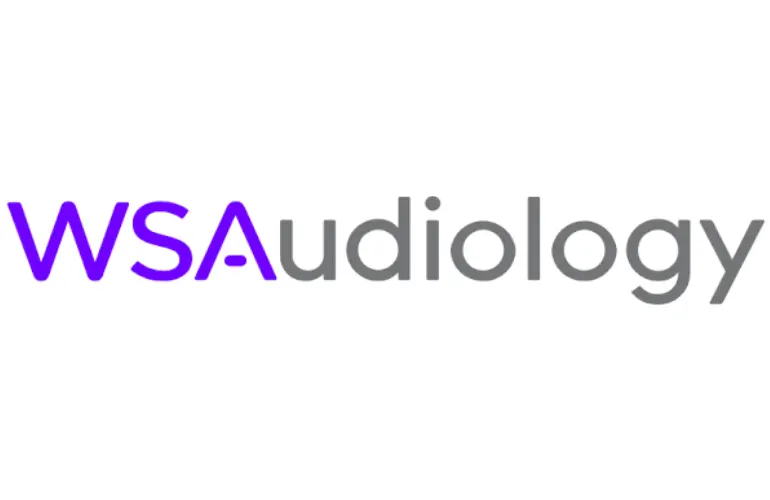
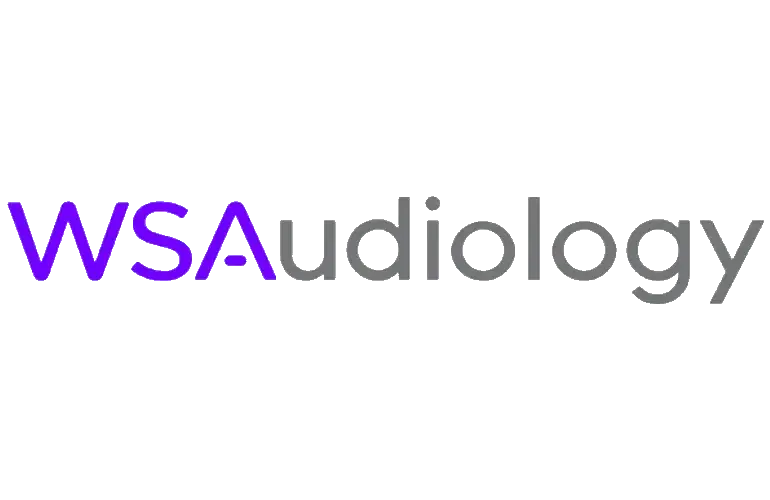
better pictures in portfolio details

Changed region(s): [[0.2494, 0.51, 0.3429, 0.57], [0.2182, 0.48, 0.2494, 0.51], [0.0623, 0.45, 0.0935, 0.48]]

diff --git a/portfolio/06_wsa_lea_testing-details.html b/portfolio/06_wsa_lea_testing-details.html
@@ -54,27 +54,15 @@
 
          <div class="portfolio-details-swiper swiper">
           <div class="swiper-wrapper">
-            <div class="swiper-slide">
-              <img src="../assets/img/portfolio/06_wsa_lea_testing/wsa_lea_testing_0a.webp" alt="">
-            </div>
-            <div class="swiper-slide">
-              <img src="../assets/img/portfolio/06_wsa_lea_testing/wsa_lea_testing_1.webp" alt="">
-            </div>
-            <div class="swiper-slide">
-              <img src="../assets/img/portfolio/06_wsa_lea_testing/wsa_lea_testing_2.webp" alt="">
-            </div>
-            <div class="swiper-slide">
-              <img src="../assets/img/portfolio/06_wsa_lea_testing/wsa_lea_testing_3.webp" alt="">
-            </div>
-            <div class="swiper-slide">
-              <img src="../assets/img/portfolio/06_wsa_lea_testing/wsa_lea_testing_4.webp" alt="">
-            </div>
-            <div class="swiper-slide">
-              <img src="../assets/img/portfolio/06_wsa_lea_testing/wsa_lea_testing_5.webp" alt="">
-            </div>
-            <div class="swiper-slide">
-              <img src="../assets/img/portfolio/06_wsa_lea_testing/wsa_lea_testing_6.webp" alt="">
-            </div>
+            <div class="swiper-slide"><img src="../assets/img/portfolio/06_wsa_lea_testing/wsa_lea_testing_0a.webp" alt=""></div>
+            <div class="swiper-slide"><img src="../assets/img/portfolio/06_wsa_lea_testing/wsa_lea_testing_1.webp" alt=""></div>
+            <div class="swiper-slide"><img src="../assets/img/portfolio/logos/zephyr.webp" alt=""></div>
+            <div class="swiper-slide"><img src="../assets/img/portfolio/logos/arm_cortex.webp" alt=""></div>
+            <div class="swiper-slide"><img src="../assets/img/portfolio/logos/nordic.webp" alt=""></div>
+            <div class="swiper-slide"><img src="../assets/img/portfolio/logos/ble.webp" alt=""></div>
+            <div class="swiper-slide"><img src="../assets/img/portfolio/logos/protobuf.webp" alt=""></div>
+            <div class="swiper-slide"><img src="../assets/img/portfolio/logos/pytest.webp" alt=""></div>
+            <div class="swiper-slide"><img src="../assets/img/portfolio/logos/freertos.webp" alt=""></div>
           </div>
           <div class="swiper-pagination"></div>
         </div>

diff --git a/portfolio/05_cropled_thread-details.html b/portfolio/05_cropled_thread-details.html
@@ -55,18 +55,12 @@
 
         <div class="portfolio-details-swiper swiper">
           <div class="swiper-wrapper">
-            <div class="swiper-slide">
-              <img src="../assets/img/portfolio/05_cropled_thread/cropled_thread_0.webp" alt="">
-            </div>
-            <div class="swiper-slide">
-              <img src="../assets/img/portfolio/05_cropled_thread/cropled_thread_1.webp" alt="">
-            </div>
-            <div class="swiper-slide">
-              <img src="../assets/img/portfolio/05_cropled_thread/cropled_thread_2.webp" alt="">
-            </div>
-            <div class="swiper-slide">
-              <img src="../assets/img/portfolio/05_cropled_thread/cropled_thread_3.webp" alt="">
-            </div>
+            <div class="swiper-slide"><img src="../assets/img/portfolio/05_cropled_thread/cropled_thread_0.webp" alt=""></div>
+            <div class="swiper-slide"><img src="../assets/img/portfolio/logos/thread.webp" alt=""></div>
+            <div class="swiper-slide"><img src="../assets/img/portfolio/logos/matter.webp" alt=""></div>
+            <div class="swiper-slide"><img src="../assets/img/portfolio/logos/esp.webp" alt=""></div>
+            <div class="swiper-slide"><img src="../assets/img/portfolio/logos/freertos.webp" alt=""></div>
+            <div class="swiper-slide"><img src="../assets/img/portfolio/logos/risc_v.webp" alt=""></div>
           </div>
           <div class="swiper-pagination"></div>
         </div>

diff --git a/portfolio/04_cropled_plc-details.html b/portfolio/04_cropled_plc-details.html
@@ -57,18 +57,12 @@
 
         <div class="portfolio-details-swiper swiper">
           <div class="swiper-wrapper">
-            <div class="swiper-slide">
-              <img src="../assets/img/portfolio/04_cropled_plc/cropled_plc_0.webp" alt="">
-            </div>
-            <div class="swiper-slide">
-              <img src="../assets/img/portfolio/04_cropled_plc/cropled_plc_1.webp" alt="">
-            </div>
-            <div class="swiper-slide">
-              <img src="../assets/img/portfolio/04_cropled_plc/cropled_plc_2.webp" alt="">
-            </div>
-            <div class="swiper-slide">
-              <img src="../assets/img/portfolio/04_cropled_plc/cropled_plc_4.webp" alt="">
-            </div>
+            <div class="swiper-slide"><img src="../assets/img/portfolio/04_cropled_plc/cropled_plc_0.webp" alt=""></div>
+            <div class="swiper-slide"><img src="../assets/img/portfolio/04_cropled_plc/cropled_plc_1.webp" alt=""></div>
+            <div class="swiper-slide"><img src="../assets/img/portfolio/logos/esp.webp" alt=""></div>
+            <div class="swiper-slide"><img src="../assets/img/portfolio/logos/ble.webp" alt=""></div>
+            <div class="swiper-slide"><img src="../assets/img/portfolio/logos/freertos.webp" alt=""></div>
+            <div class="swiper-slide"><img src="../assets/img/portfolio/logos/raft.webp" alt=""></div>
           </div>
           <div class="swiper-pagination"></div>
         </div>

diff --git a/portfolio/02.html b/portfolio/02.html
@@ -55,18 +55,12 @@
 
         <div class="portfolio-details-swiper swiper">
           <div class="swiper-wrapper">
-            <div class="swiper-slide">
-              <img src="../assets/img/portfolio/02/pf_02_1.webp" alt="">
-            </div>
-            <div class="swiper-slide">
-              <img src="../assets/vid/portfolio/02/pf_02_1.mp4" alt="">
-            </div>
-            <div class="swiper-slide">
-              <img src="../assets/img/portfolio/02/pf_02_2.webp" alt="">
-            </div>
-            <div class="swiper-slide">
-              <img src="../assets/vid/portfolio/02/pf_02_2.mp4" alt="">
-            </div>
+            <div class="swiper-slide"><img src="../assets/img/portfolio/logos/qt.webp" alt=""></div>
+            <div class="swiper-slide"><img src="../assets/img/portfolio/logos/ble.webp" alt=""></div>
+            <div class="swiper-slide"><img src="../assets/img/portfolio/02/pf_02_1.webp" alt=""></div>
+            <div class="swiper-slide"><img src="../assets/vid/portfolio/02/pf_02_1.mp4" alt=""></div>
+            <div class="swiper-slide"><img src="../assets/img/portfolio/02/pf_02_2.webp" alt=""></div>
+            <div class="swiper-slide"><img src="../assets/vid/portfolio/02/pf_02_2.mp4" alt=""></div>
           </div>
           <div class="swiper-pagination"></div>
         </div>

diff --git a/portfolio/01.html b/portfolio/01.html
@@ -57,15 +57,11 @@
 
         <div class="portfolio-details-swiper swiper">
           <div class="swiper-wrapper">
-            <div class="swiper-slide">
-              <img src="../assets/img/portfolio/01/pf_01_1.webp" alt="">
-            </div>
-            <div class="swiper-slide">
-              <img src="../assets/img/portfolio/01/pf_01_2.webp" alt="">
-            </div>
-            <div class="swiper-slide">
-              <img src="../assets/img/portfolio/01/pf_01_3.webp" alt="">
-            </div>
+            <div class="swiper-slide"><img src="../assets/img/portfolio/01/pf_01_1.webp" alt=""></div>
+            <div class="swiper-slide"><img src="../assets/img/portfolio/logos/zephyr.webp" alt=""></div>
+            <div class="swiper-slide"><img src="../assets/img/portfolio/logos/nordic.webp" alt=""></div>
+            <div class="swiper-slide"><img src="../assets/img/portfolio/logos/arm_cortex.webp" alt=""></div>
+            <div class="swiper-slide"><img src="../assets/img/portfolio/logos/ble.webp" alt=""></div>
           </div>
           <div class="swiper-pagination"></div>
         </div>

diff --git a/assets/css/style.css b/assets/css/style.css
@@ -986,6 +986,12 @@ html[lang=de] [lang]:not([lang=de]) {
   gap: 50px;
 }
 
+@media (max-width: 1000px) {
+  .portfolio-details .section-content {
+    grid-template-columns: 1fr;
+  }
+}
+
 .portfolio-details .description {
   display: grid;
   grid-template-columns: auto 1fr;
@@ -1007,13 +1013,7 @@ html[lang=de] [lang]:not([lang=de]) {
   margin: 0px;  
 }
 
-/* .portfolio-details .portfolio-details-swiper {
-  top: 20px;
-  position: sticky;
-} */
-
 .portfolio-details .swiper {
-  grid-column: 2;
   width: 100%;
   align-self: center;
 }
@@ -1046,21 +1046,20 @@ html[lang=de] [lang]:not([lang=de]) {
   align-items: center;
 } 
 
+.portfolio-details .swiper-slide {
+  display: flex;
+  justify-content: center;
+} 
+
 .portfolio-details .swiper img {
   width: 100%;
+  max-width: 400px;
 }
 
 .portfolio-details .swiper video {
   width: 100%;
+  max-width: 400px;
 }
-
-/*
-.portfolio-details .portfolio-details-slider video {
-  border: none;
-  max-width: 100%;
-  max-height: 90vh;
-}
-*/
 
 .portfolio-details .details {
   grid-column: 1/-1;

diff --git a/portfolio/03.html b/portfolio/03.html
@@ -55,9 +55,8 @@
 
         <div class="portfolio-details-swiper swiper">
           <div class="swiper-wrapper">
-            <div class="swiper-slide">
-              <img src="../assets/img/portfolio/03/pf_03_1.webp" alt="">
-            </div>
+            <div class="swiper-slide"><img src="../assets/img/portfolio/03/pf_03_1.webp" alt=""></div>
+            <div class="swiper-slide"><img src="../assets/img/portfolio/logos/qt.webp" alt=""></div>
           </div>
           <div class="swiper-pagination"></div>
         </div>
